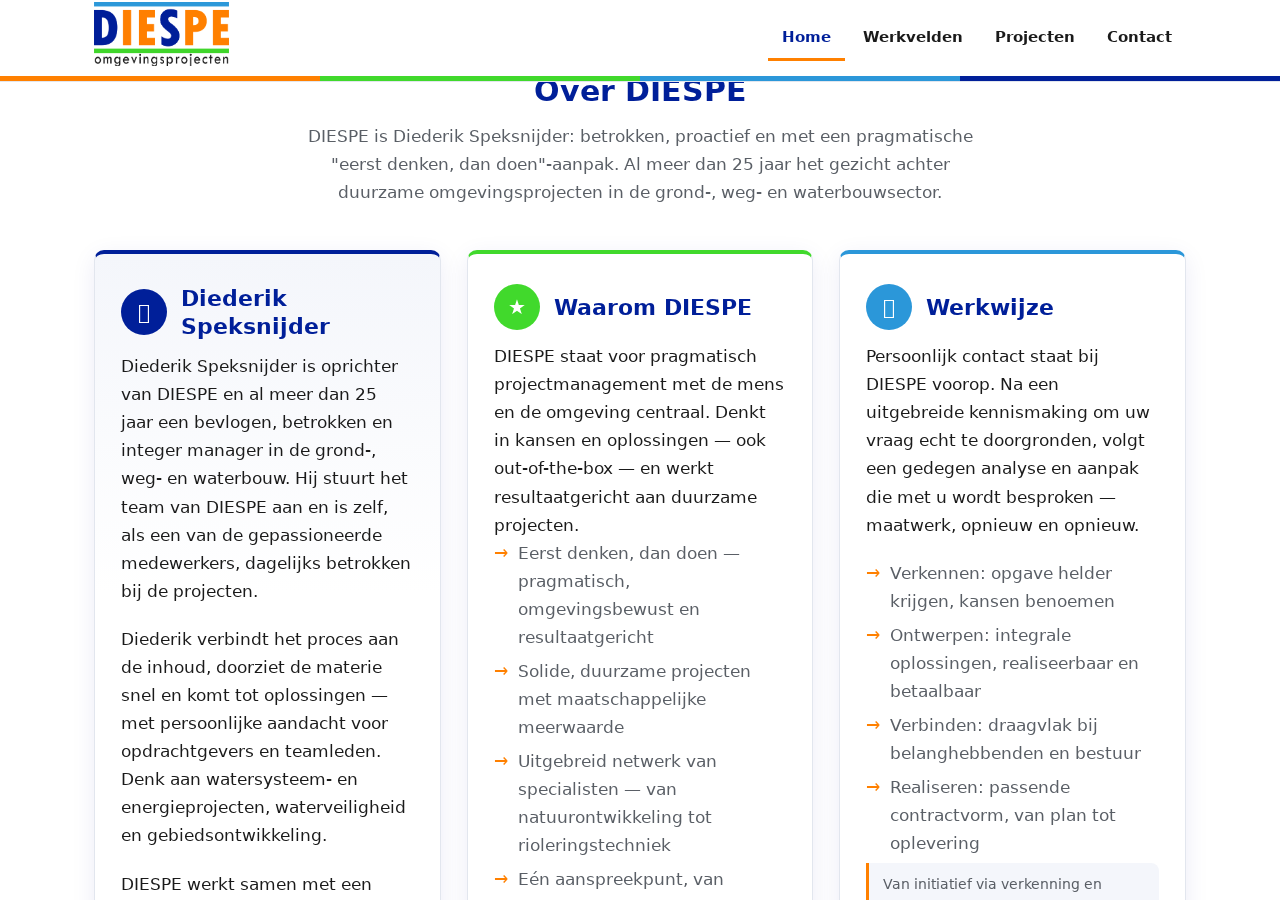
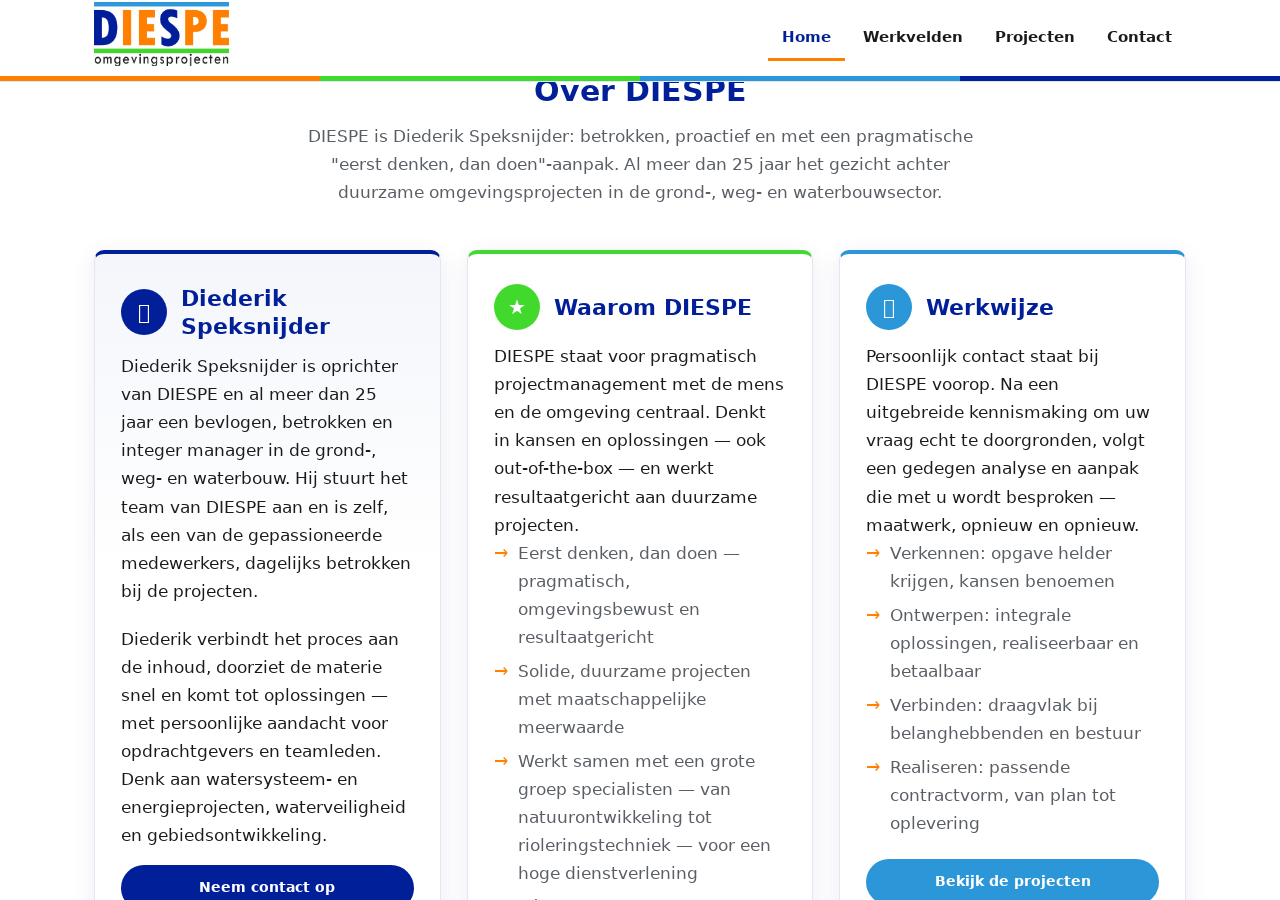
Over DIESPE: knoppen gewisseld, voorbeeldregel weg, specialistenzin naar Waarom DIESPE

diff --git a/preview/index.html b/preview/index.html
@@ -153,7 +153,6 @@
         <div class="card-header"><span class="card-icon" aria-hidden="true">&#128100;</span><h3>Diederik Speksnijder</h3></div>
         <p>Diederik Speksnijder is oprichter van DIESPE en al meer dan 25 jaar een bevlogen, betrokken en integer manager in de grond-, weg- en waterbouw. Hij stuurt het team van DIESPE aan en is zelf, als een van de gepassioneerde medewerkers, dagelijks betrokken bij de projecten.</p>
         <p>Diederik verbindt het proces aan de inhoud, doorziet de materie snel en komt tot oplossingen &mdash; met persoonlijke aandacht voor opdrachtgevers en teamleden. Denk aan watersysteem- en energieprojecten, waterveiligheid en gebiedsontwikkeling.</p>
-        <p>DIESPE werkt samen met een grote groep specialisten om zo kenniselementen op te vullen en de opdrachtgever een hoge dienstverlening te bieden.</p>
         <a class="btn btn--kleur1 card-more" href="contact.html">Neem contact op</a>
       </div>
       <div class="card">
@@ -162,10 +161,10 @@
         <ul>
           <li>Eerst denken, dan doen &mdash; pragmatisch, omgevingsbewust en resultaatgericht</li>
           <li>Solide, duurzame projecten met maatschappelijke meerwaarde</li>
-          <li>Uitgebreid netwerk van specialisten &mdash; van natuurontwikkeling tot rioleringstechniek</li>
+          <li>Werkt samen met een grote groep specialisten &mdash; van natuurontwikkeling tot rioleringstechniek &mdash; voor een hoge dienstverlening</li>
           <li>E&eacute;n aanspreekpunt, van initiatief tot realisatie</li>
         </ul>
-        <a class="btn btn--kleur2 card-more" href="projecten.html">Bekijk de projecten</a>
+        <a class="btn btn--kleur2 card-more" href="index.html#werkvelden">Naar de werkvelden</a>
       </div>
       <div class="card">
         <div class="card-header"><span class="card-icon" aria-hidden="true">&#127757;</span><h3>Werkwijze</h3></div>
@@ -176,8 +175,7 @@
           <li>Verbinden: draagvlak bij belanghebbenden en bestuur</li>
           <li>Realiseren: passende contractvorm, van plan tot oplevering</li>
         </ul>
-        <p class="card-case">Van initiatief via verkenning en planuitwerking tot realisatie.</p>
-        <a class="btn btn--kleur3 card-more" href="index.html#werkvelden">Naar de werkvelden</a>
+        <a class="btn btn--kleur3 card-more" href="projecten.html">Bekijk de projecten</a>
       </div>
     </div>
     <p class="section-intro" style="margin-top:44px; margin-bottom:0;">We voeren onze diensten en werkzaamheden uit volgens De Nieuwe Regeling 2011 (DNR 2011), herziening juli 2013.</p>

diff --git a/front-page.php b/front-page.php
@@ -171,7 +171,6 @@ $over_tekst2 = diespe_home_text( 'over_tekst2', __( 'Diederik verbindt het proce
 				</div>
 				<p><?php echo esc_html( $over_tekst1 ); ?></p>
 				<p><?php echo esc_html( $over_tekst2 ); ?></p>
-				<p><?php esc_html_e( 'DIESPE werkt samen met een grote groep specialisten om zo kenniselementen op te vullen en de opdrachtgever een hoge dienstverlening te bieden.', 'diespe' ); ?></p>
 				<a class="btn btn--kleur1 card-more" href="<?php echo esc_url( home_url( '/contact/' ) ); ?>"><?php esc_html_e( 'Neem contact op', 'diespe' ); ?></a>
 			</div>
 			<div class="card">
@@ -184,10 +183,10 @@ $over_tekst2 = diespe_home_text( 'over_tekst2', __( 'Diederik verbindt het proce
 					<li><?php esc_html_e( 'Eerst denken, dan doen — pragmatisch en resultaatgericht', 'diespe' ); ?></li>
 					<li><?php esc_html_e( 'Omgevingsbewust werken met oog voor belang van stakeholders', 'diespe' ); ?></li>
 					<li><?php esc_html_e( 'Solide, duurzame projecten met maatschappelijke meerwaarde', 'diespe' ); ?></li>
-					<li><?php esc_html_e( 'Uitgebreid netwerk van specialisten — van natuurontwikkeling tot rioleringstechniek', 'diespe' ); ?></li>
+					<li><?php esc_html_e( 'Werkt samen met een grote groep specialisten — van natuurontwikkeling tot rioleringstechniek — voor een hoge dienstverlening', 'diespe' ); ?></li>
 					<li><?php esc_html_e( 'Eén aanspreekpunt, van initiatief tot realisatie', 'diespe' ); ?></li>
 				</ul>
-				<a class="btn btn--kleur2 card-more" href="<?php echo esc_url( get_post_type_archive_link( 'diespe_project' ) ); ?>"><?php esc_html_e( 'Bekijk de projecten', 'diespe' ); ?></a>
+				<a class="btn btn--kleur2 card-more" href="<?php echo esc_url( home_url( '/werkvelden/' ) ); ?>"><?php esc_html_e( 'Naar de werkvelden', 'diespe' ); ?></a>
 			</div>
 			<div class="card">
 				<div class="card-header">
@@ -201,8 +200,7 @@ $over_tekst2 = diespe_home_text( 'over_tekst2', __( 'Diederik verbindt het proce
 					<li><?php esc_html_e( 'Verbinden: draagvlak bij belanghebbenden en bestuur', 'diespe' ); ?></li>
 					<li><?php esc_html_e( 'Realiseren: passende contractvorm, van plan tot oplevering', 'diespe' ); ?></li>
 				</ul>
-				<p class="card-case"><?php esc_html_e( 'Van initiatief via verkenning en planuitwerking tot realisatie.', 'diespe' ); ?></p>
-				<a class="btn btn--kleur3 card-more" href="<?php echo esc_url( home_url( '/werkvelden/' ) ); ?>"><?php esc_html_e( 'Naar de werkvelden', 'diespe' ); ?></a>
+				<a class="btn btn--kleur3 card-more" href="<?php echo esc_url( get_post_type_archive_link( 'diespe_project' ) ); ?>"><?php esc_html_e( 'Bekijk de projecten', 'diespe' ); ?></a>
 			</div>
 		</div>
 		<p class="section-intro" style="margin-top:44px; margin-bottom:0;"><?php esc_html_e( 'We voeren onze diensten en werkzaamheden uit volgens De Nieuwe Regeling 2011 (DNR 2011), herziening juli 2013.', 'diespe' ); ?></p>
